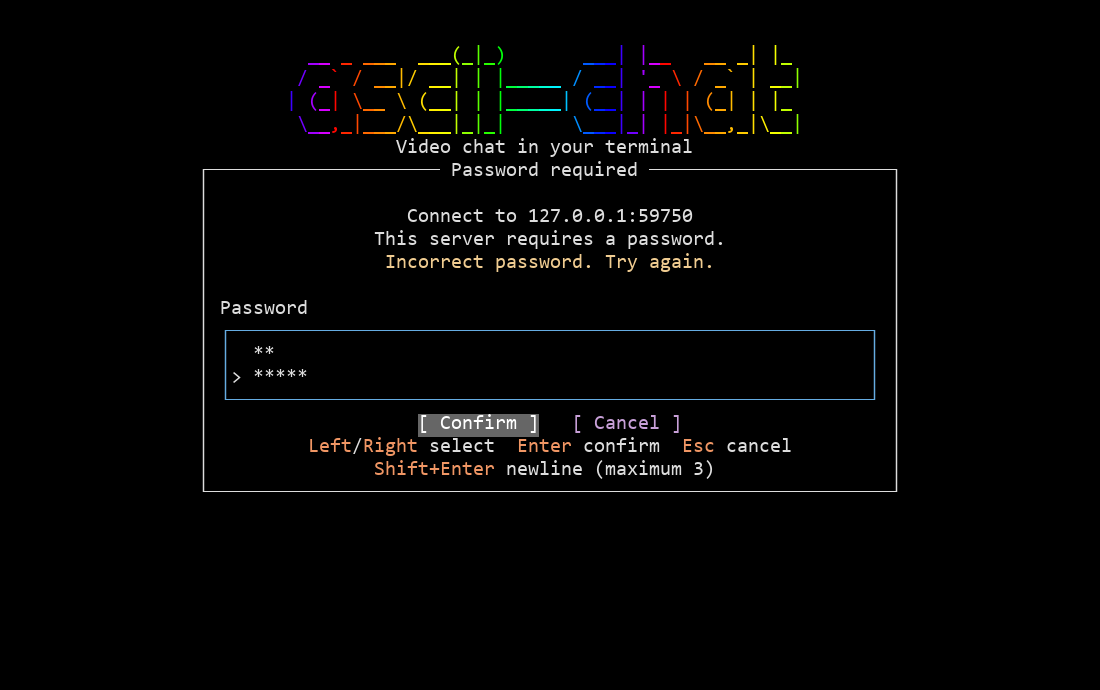
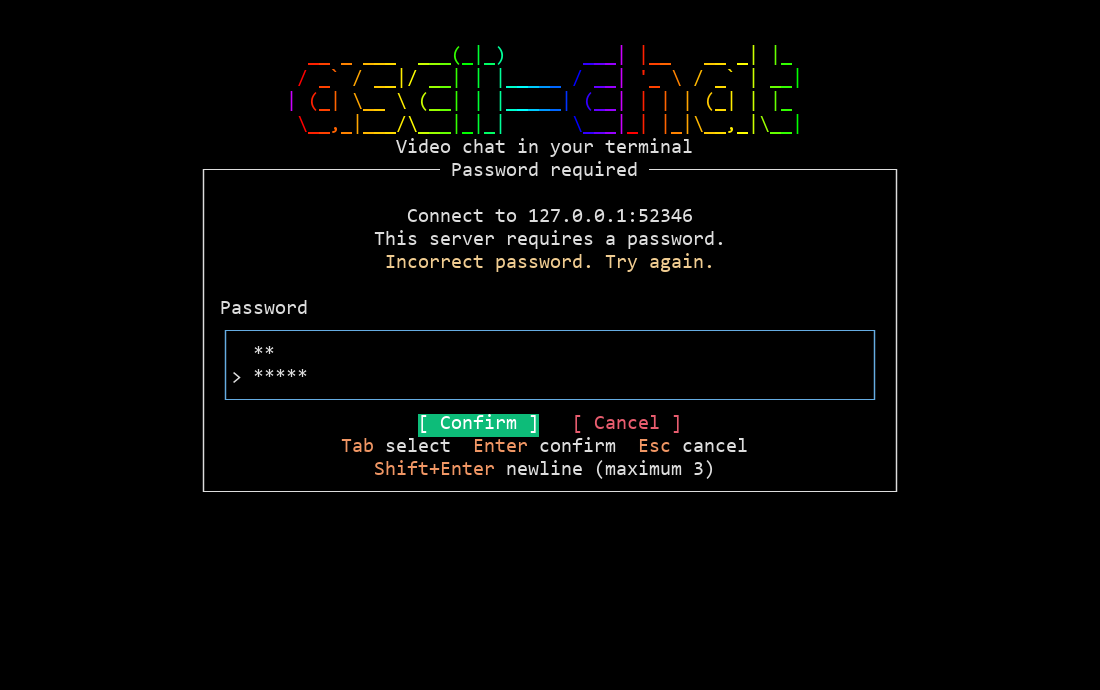
fix: preserve password editing keys and add clipboard paste and button colors

diff --git a/tests/integration/password_prompt.py b/tests/integration/password_prompt.py
@@ -96,11 +96,16 @@ def main():
                     if label in line:
                         start = line.index(label)
                         cells = [term.screen.buffer[row][col] for col in range(start, start + len(label))]
-                        return all(cell.bg != 'default' and not cell.reverse and cell.fg != cell.bg for cell in cells)
+                        backgrounds = all(cell.bg != 'default' and not cell.reverse and cell.fg != cell.bg for cell in cells)
+                        bg = cells[0].bg
+                        if len(bg) == 6 and all(c in '0123456789abcdef' for c in bg):
+                            red, green, blue = (int(bg[i:i + 2], 16) for i in (0, 2, 4))
+                            return backgrounds and (green > red and green > blue if 'Confirm' in label else red > green and red > blue)
+                        return backgrounds and bg in (('green', 'brightgreen') if 'Confirm' in label else ('red', 'brightred'))
                 return False
             term.expect(highlighted, 'Selected button must have a background fill and regular foreground')
         def enter_secret(term):
-            term.write('s3' + SHIFT_ENTER + 'cret!')
+            term.write('s3' + SHIFT_ENTER + 'ct!' + '\x1b[D' * 2 + '\x1b[200~re\x1b[201~')
             term.expect(lambda s: '**' in s and '*****' in s, 'Multiline password was not masked')
         def reject(term, answer, paste=False):
             term.write('\x1b[200~' + answer + '\x1b[201~' if paste else answer)
@@ -132,18 +137,33 @@ def main():
                 row, line = next((r, line) for r, line in enumerate(peer.screen.display) if text in line)
                 column = line.index(text)
                 assert abs(2 * column + len(text) - peer.screen.columns) <= 1, f'{text} is not centered'
-            row, line = next((r, line) for r, line in enumerate(peer.screen.display) if 'Left/Right' in line)
-            column = line.index('Left/Right')
+            row, line = next((r, line) for r, line in enumerate(peer.screen.display) if 'Tab select' in line)
             cells = peer.screen.buffer[row]
-            assert cells[column].fg == cells[column + 5].fg != cells[column + 4].fg, 'Shortcut slash inherited orange'
-            assert cells[column + 4].fg == cells[line.index('select')].fg, 'Shortcut slash lost normal foreground'
+            assert cells[line.index('Tab')].fg != cells[line.index('select')].fg, 'Shortcut is not colored separately'
             selected(peer, '[ Confirm ]')
-            peer.write('\x1b[C')
+            peer.write('\t')
             selected(peer, '[ Cancel ]')
             save(peer, 'client-selected-cancel')
-            peer.write('\x1b[D')
+            peer.write('\t')
             selected(peer, '[ Confirm ]')
             save(peer, 'client-initial')
+            peer.write('x' * 80)
+            peer.expect(lambda s: s.count('*') >= 50, 'Long input did not render')
+            save(peer, 'client-scrolled')
+            end_x = peer.screen.cursor.x
+            assert peer.screen.display[peer.screen.cursor.y].count('*') < 80, 'Long input did not scroll'
+            peer.write('\x1b[H')
+            peer.expect(lambda _: peer.screen.cursor.x < end_x - 20, 'Home did not reveal input start')
+            home_x = peer.screen.cursor.x
+            peer.write('\x1b[C')
+            peer.expect(lambda _: peer.screen.cursor.x == home_x + 1, 'Right did not move input cursor')
+            selected(peer, '[ Confirm ]')
+            peer.write('\x1b[D')
+            peer.expect(lambda _: peer.screen.cursor.x == home_x, 'Left did not move input cursor')
+            peer.write('\x1b[F')
+            peer.expect(lambda _: peer.screen.cursor.x == end_x, 'End did not reveal input tail')
+            peer.write('\b' * 80)
+            peer.expect(lambda s: '*' not in s, 'Scrolled input did not delete correctly')
             peer.write('short\r')
             peer.expect(lambda s: '*****' in s and 'Password required' in s, 'Short input submitted')
             peer.write('\b' * 5)
@@ -176,6 +196,11 @@ def main():
             prompt(peer)
             enter_secret(peer)
             selected(peer, '[ Confirm ]')
+            peer.write('\t')
+            selected(peer, '[ Cancel ]')
+            save(peer, 'client-selected-cancel')
+            peer.write('\t')
+            selected(peer, '[ Confirm ]')
             peer.pump(.3)
             save(peer, 'client-masked')
             peer.write('\r')
@@ -186,8 +211,8 @@ def main():
                 assert time.monotonic() < deadline, peer.pump()
                 peer.pump(.1)
             assert SECRET not in ''.join(peer.raw)
-            for name, keys, utf8 in [('escape', '\x1b', 'true'), ('cancel', '\x1b[C\r', 'true'),
-                                     ('ascii-cancel', '\x1b[C\r', 'false')]:
+            for name, keys, utf8 in [('escape', '\x1b', 'true'), ('cancel', '\t\r', 'true'),
+                                     ('ascii-cancel', '\t\r', 'false')]:
                 cancelled = client(name, ['--utf8', utf8])
                 prompt(cancelled)
                 text = cancelled.pump(.1)
@@ -197,7 +222,7 @@ def main():
                     save(cancelled, 'client-ascii')
                 cancelled.write(keys)
                 wait_exit(cancelled)
-            print('PASS client: retries, editing, spaces, masking, minimum length, multiline limit, UTF-8/ASCII borders, Left/Right, resize, Enter, Esc', flush=True)
+            print('PASS client: retries, editing, spaces, masking, minimum length, multiline limit, UTF-8/ASCII borders, Tab, cursor navigation, horizontal scrolling, resize, Enter, Esc', flush=True)
 
             acds_port = free_port()
             acds = subprocess.Popen([binary, '--no-check-update', '--log-file', str(root / 'acds.log'),
@@ -227,7 +252,7 @@ def main():
                 joiner.pump(.1)
             assert joiner.process.isalive()
             assert SECRET not in ''.join(joiner.raw)
-            for name, keys in [('discovery-escape', '\x1b'), ('discovery-cancel', '\x1b[C\r')]:
+            for name, keys in [('discovery-escape', '\x1b'), ('discovery-cancel', '\t\r')]:
                 cancelled = terminal(name, [session, *discovery])
                 prompt(cancelled)
                 cancelled.write(keys)

diff --git a/lib/ui/buttons.c b/lib/ui/buttons.c
@@ -43,12 +43,16 @@ void ui_buttons_render(frame_buffer_t *out, int row, int left, int width, const 
     bool colors = !GET_OPTION(strip_ansi) && GET_OPTION(color_mode) != TERM_COLOR_NONE &&
                   terminal_should_color_output(frame_buffer_get_screen_output_fd());
     if (selected_button && colors) {
-      terminal_color_mode_t mode = terminal_get_effective_color_mode();
+      terminal_color_mode_t mode = GET_OPTION(color_mode);
+      if (mode == TERM_COLOR_AUTO)
+        mode = terminal_get_effective_color_mode();
       colorscheme_palette_t palette;
       colorscheme_current_palette(&palette, mode);
       uint8_t grey = colorscheme_highlight_background();
       frame_buffer_printf(out, "\033[%d;%dH\033[0m%s", row + (stacked ? (int)i : 0), x, palette.foreground);
-      if (mode >= TERM_COLOR_TRUECOLOR)
+      if (b[i].color == LOG_COLOR_INFO || b[i].color == LOG_COLOR_ERROR)
+        frame_buffer_printf(out, "\033[%dm", b[i].color == LOG_COLOR_INFO ? 42 : 41);
+      else if (mode >= TERM_COLOR_TRUECOLOR)
         frame_buffer_printf(out, "\033[48;2;%u;%u;%um", grey, grey, grey);
       else if (mode >= TERM_COLOR_256)
         frame_buffer_printf(out, "\033[48;5;%um", 232 + (unsigned)grey * 23 / 255);
@@ -56,7 +60,10 @@ void ui_buttons_render(frame_buffer_t *out, int row, int left, int width, const 
         frame_buffer_printf(out, "\033[%dm", palette.background == TERM_BACKGROUND_DARK ? 100 : 47);
       frame_buffer_printf(out, "%s\033[0m", b[i].label);
     } else {
-      const char *label = colored_string(b[i].disabled ? LOG_COLOR_GREY : LOG_COLOR_FATAL, b[i].label);
+      const char *label = colored_string(b[i].disabled ? LOG_COLOR_GREY
+                                         : b[i].color  ? b[i].color
+                                                       : LOG_COLOR_FATAL,
+                                         b[i].label);
       frame_buffer_printf(out, "\033[%d;%dH%s%s\033[0m", row + (stacked ? (int)i : 0), x,
                           selected_button ? "\033[7m" : "", label);
     }

diff --git a/lib/tui/input.c b/lib/tui/input.c
@@ -16,6 +16,7 @@
 #include <ascii-chat/tui/keyboard_help.h>
 #include <ascii-chat/tui/update_banner.h>
 #include <ascii-chat/platform/question.h>
+#include <ascii-chat/platform/clipboard.h>
 #include <ascii-chat/common.h>
 #include <ascii-chat/util/utf8.h>
 #include <string.h>
@@ -527,7 +528,7 @@ static asciichat_error_t input_prompt(const char *prompt, char *buffer, size_t m
       continue;
     }
     actions[0].disabled = password_dialog && len < MIN_PASSWORD_LENGTH;
-    if (password_dialog && (key == KEY_LEFT || key == KEY_RIGHT || key == '\r' || key == '\n')) {
+    if (password_dialog && (key == '\t' || key == '\r' || key == '\n')) {
       int activated = ui_buttons_key(&buttons, actions, 2, key);
       if (activated == 0)
         break;
@@ -537,9 +538,20 @@ static asciichat_error_t input_prompt(const char *prompt, char *buffer, size_t m
       }
       continue;
     }
-    if (key == KEY_PASTE) {
+    if (key == KEY_PASTE || key == 22) {
       char pasted[8192] = {0};
-      if (ui_input_take_paste(pasted, sizeof(pasted)) == ASCIICHAT_OK) {
+      asciichat_error_t pasted_result =
+          key == 22 ? platform_clipboard_read(pasted, sizeof(pasted)) : ui_input_take_paste(pasted, sizeof(pasted));
+      if (pasted_result == ASCIICHAT_OK) {
+        if (key == 22) {
+          size_t write = 0;
+          for (size_t read = 0; pasted[read]; ++read) {
+            if (pasted[read] == '\r' && pasted[read + 1] == '\n')
+              continue;
+            pasted[write++] = pasted[read] == '\r' ? '\n' : pasted[read];
+          }
+          pasted[write] = '\0';
+        }
         size_t newlines = 0;
         for (size_t i = 0; i < len; ++i)
           newlines += buffer[i] == '\n';

diff --git a/lib/tui/prompt.c b/lib/tui/prompt.c
@@ -153,16 +153,14 @@ static void password_panel(frame_buffer_t *buffer, terminal_size_t size, const p
         top + 4, left, width);
   frame_buffer_printf(buffer, "\033[%d;%dHPassword", top + 6, left + 2);
   ui_popup_frame(buffer, top + 7, left + 2, width - 4, lines + 2, LOG_COLOR_DEBUG);
-  const ui_button_t buttons[] = {{"[ Confirm ]", 0, !s->can_confirm}, {"[ Cancel ]", 0, false}};
+  const ui_button_t buttons[] = {{.label = "[ Confirm ]", .disabled = !s->can_confirm, .color = LOG_COLOR_INFO},
+                                 {.label = "[ Cancel ]", .color = LOG_COLOR_ERROR}};
   ui_buttons_render(buffer, top + 9 + lines, left + 2, width - 4, buttons, 2, s->selected_button);
   const char *orange = s->color ? ui_text_color_prefix(LOG_COLOR_DEV) : "";
   const char *foreground = s->color ? ui_text_color_prefix(LOG_COLOR_RESET) : "";
   char shortcuts[1024];
-  snprintf(shortcuts, sizeof(shortcuts),
-           width >= 46 ? "%s%s%s/%s%s%s select  %sEnter%s confirm  %sEsc%s cancel"
-                       : "%s%s%s/%s%s%s  %sEnter%s confirm  %sEsc%s cancel",
-           orange, width >= 46 ? "Left" : "L", foreground, orange, width >= 46 ? "Right" : "R", foreground, orange,
-           foreground, orange, foreground);
+  snprintf(shortcuts, sizeof(shortcuts), "%sTab%s select  %sEnter%s confirm  %sEsc%s cancel", orange, foreground,
+           orange, foreground, orange, foreground);
   password_center_line(buffer, shortcuts, top + 10 + lines, left, width);
   snprintf(shortcuts, sizeof(shortcuts), "%sShift+Enter%s newline (maximum 3)", orange, foreground);
   password_center_line(buffer, shortcuts, top + 11 + lines, left, width);

diff --git a/tests/unit/ui/terminal_response_test.c b/tests/unit/ui/terminal_response_test.c
@@ -183,8 +183,8 @@ Test(terminal_response, shifted_enter_is_distinct_and_survives_fragmented_input)
 
 Test(terminal_response, extended_keyboard_controls_preserve_cancel_and_edit_keys) {
   keyboard_stream_reset();
-  input = "\033[27u\033[13u\033[9u\033[127u\033[99;5u\033[27;5;99~";
-  const keyboard_key_t keys[] = {KEY_ESCAPE, 13, 9, 127, 3, 3};
+  input = "\033[27u\033[13u\033[9u\033[127u\033[99;5u\033[27;5;99~\033[118;5u\033[27;5;118~";
+  const keyboard_key_t keys[] = {KEY_ESCAPE, 13, 9, 127, 3, 3, 22, 22};
   for (size_t i = 0; i < sizeof(keys) / sizeof(keys[0]); ++i)
     cr_assert_eq(keyboard_stream_read(next_byte), keys[i]);
 }

diff --git a/lib/platform/keyboard_stream.c b/lib/platform/keyboard_stream.c
@@ -189,6 +189,8 @@ static keyboard_key_t keyboard_stream_read_unlocked(int (*read_byte)(void)) {
       key = (keyboard_key_t)127;
     else if (!strcmp(sequence, "\033[99;5u") || !strcmp(sequence, "\033[27;5;99~"))
       key = (keyboard_key_t)3;
+    else if (!strcmp(sequence, "\033[118;5u") || !strcmp(sequence, "\033[27;5;118~"))
+      key = (keyboard_key_t)22;
     else if (!strcmp(sequence, "\033[A"))
       key = KEY_UP;
     else if (!strcmp(sequence, "\033[B"))

diff --git a/include/ascii-chat/ui/buttons.h b/include/ascii-chat/ui/buttons.h
@@ -1,10 +1,12 @@
 #pragma once
 #include <ascii-chat/ui/frame_buffer.h>
+#include <ascii-chat/log/log.h>
 #include <ascii-chat/platform/keyboard.h>
 typedef struct {
   const char *label;
   keyboard_key_t shortcut;
   bool disabled;
+  log_color_t color; /**< Unselected foreground; zero retains the default button color. */
 } ui_button_t;
 typedef struct {
   size_t selected;

diff --git a/images/password-prompt/README.md b/images/password-prompt/README.md
@@ -22,6 +22,7 @@ session join reaches `CONNECTING_HOST`; this is not a WebRTC media delivery test
 
 - `client-initial.png`: initial password dialog, with Confirm selected by default.
 - `client-selected-cancel.png`: Cancel selected using Right, with a filled background.
+- `client-scrolled.png`: horizontally scrolled 80-character masked input.
 - `client-masked.png`: two-line masked password and selected Confirm button.
 - `client-newline-limit.png`: four-line input and the error after a fourth newline.
 - `client-ascii.png`: ASCII borders with `--utf8 false`.
@@ -32,15 +33,17 @@ session join reaches `CONNECTING_HOST`; this is not a WebRTC media delivery test
 The implementation uses the existing rainbow animation, popup frame, line editor,
 and buttons. The title is centered in the top border; the connection text and
 controls are centered within the frame. The label and confirmation wording match
-the concept. Shortcut names are orange, with the Left/Right slash in the regular
-foreground. Native terminal colors, font metrics, and the input marker differ
-from the illustrative concept.
+the concept. Shortcut names are orange. Tab selects buttons; Left/Right and Home/End
+navigate the shared scrollable input editor. Ctrl+V inserts clipboard text at
+the cursor, preserving following text and the three-newline limit. Native terminal
+colors, font metrics, and the input marker differ from the illustrative concept.
 
-Left/Right select a button, Enter activates it, and Esc cancels. Typing always edits
+Tab cycles between buttons, Enter activates the selected button, and Esc cancels. Typing always edits
 the password. Shift+Enter inserts a newline and grows the input; up to three
 newlines (four lines) are allowed. Further newlines leave the password unchanged
-and show an inline error. Button selection uses the shared UI buttons, with a
-background fill and the regular foreground color.
+and show an inline error. Button selection uses the shared UI buttons, with
+the button’s green/red background fill and the regular foreground color. Enabled,
+unselected Confirm is green and Cancel is red. Disabled Confirm remains gray.
 
 Popup borders use `terminal_should_use_utf8()`: `--utf8 true` forces Unicode,
 `--utf8 false` forces ASCII, and auto follows detection. Captures use the measured
